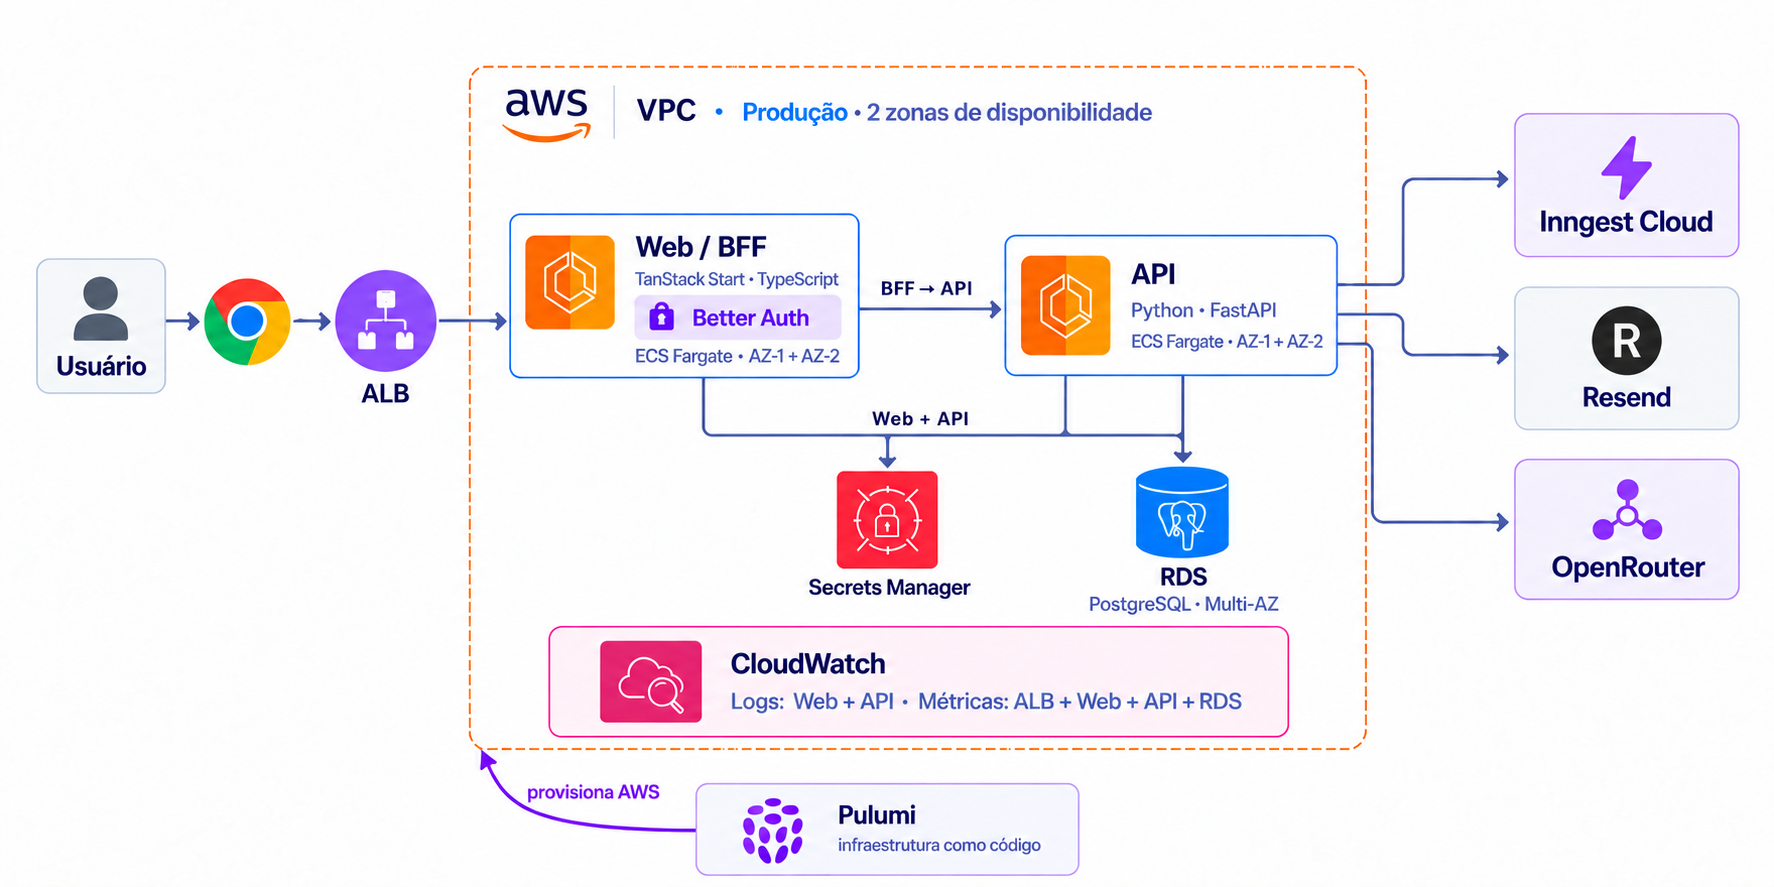
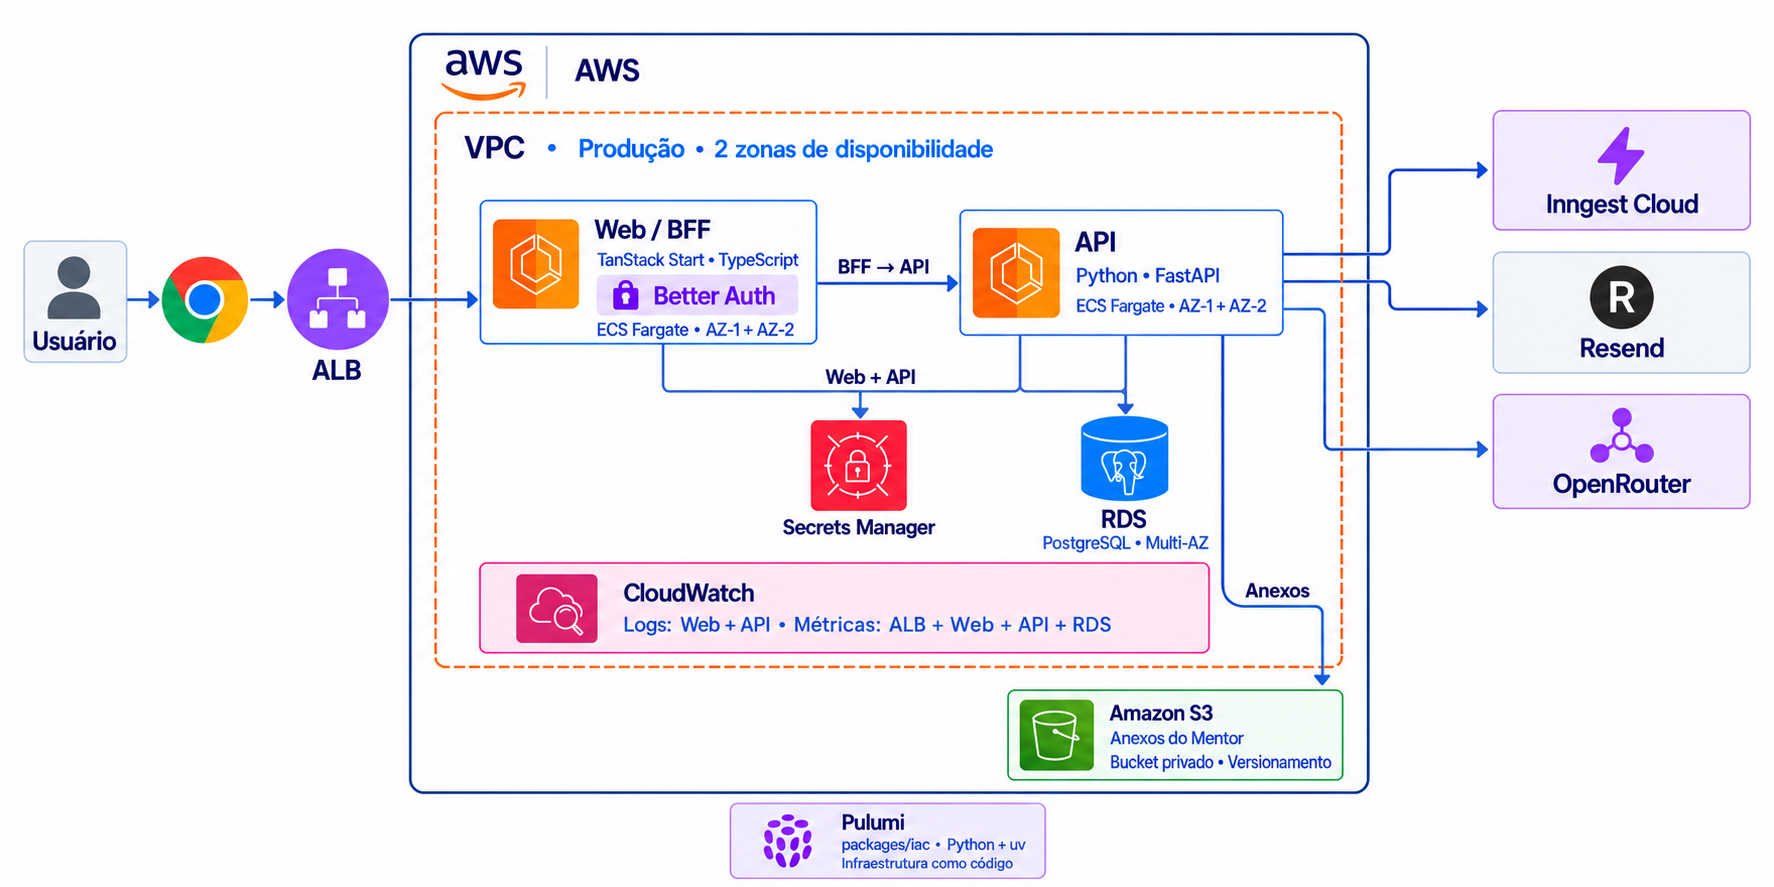
docs: SHIFU-999 update infrastructure documentation

Changed region(s): [[0.0, 0.0304, 0.9921, 1.0]]

diff --git a/documentation/infrastructure.md b/documentation/infrastructure.md
@@ -15,13 +15,14 @@ Para a arquitetura das aplicações e os limites dos módulos de produto, consul
 | Provedor de nuvem | AWS |
 | Execução das aplicações | Dois serviços ECS com Fargate: Web/BFF e API |
 | Banco relacional | Amazon RDS for PostgreSQL |
+| Arquivos de anexos do Mentor | Amazon S3; integração planejada, com objetos privados |
 | Cache e limitação de requisições | Redis gerenciado, em rede privada; produto e capacidade a definir |
 | Processamento assíncrono | Inngest Cloud |
 | E-mail transacional | Resend |
 | Avaliação e recursos de IA | OpenRouter, acessado pela API |
 | Segredos de aplicação | AWS Secrets Manager |
 | Logs, métricas e alarmes AWS | Amazon CloudWatch |
-| Provisionamento | Pulumi, com stacks separados por ambiente |
+| Provisionamento | Pulumi em Python, com uv, no pacote `packages/iac`; stacks separados por ambiente |
 
 Essas escolhas não transferem regras de negócio para a infraestrutura. Identity,
 Communication, Curriculum, Learning, Gamification e Intelligence continuam com
@@ -35,6 +36,7 @@ Navegador → HTTPS/ALB → Web/BFF (TanStack Start, TypeScript)
                             └─ chamadas autenticadas → API (Python, FastAPI)
                                                         ├─ RDS PostgreSQL
                                                         ├─ Redis
+                                                        ├─ S3 (anexos privados do Mentor; planejado)
                                                         ├─ Inngest Cloud
                                                         └─ OpenRouter
 
@@ -98,6 +100,79 @@ abrir a sub-rede de dados.
 
 ## Dados, autenticação e segredos
 
+### S3 — anexos do Mentor
+
+O uso definido de S3 no Shifu é **somente para anexos do Mentor**, como imagens,
+PDFs e outros arquivos enviados nas conversas. Materiais didáticos não fazem
+parte desse uso. A integração com o Mentor é planejada; esta decisão de
+infraestrutura não afirma que upload, leitura de anexos ou processamento pela
+IA já estejam implementados ou aprovados no PRD de Intelligence.
+
+O S3 guarda o conteúdo dos arquivos. O PostgreSQL guarda seus metadados e
+vínculos: identificador do anexo, usuário, conversa, nome original, tipo,
+tamanho e chave do objeto. O caminho segue o domínio proprietário:
+
+```text
+intelligence/mentor/users/{userId}/conversations/{conversationId}/attachments/{attachmentId}/{filename}
+```
+
+Exemplo com identificadores fictícios:
+
+```text
+intelligence/mentor/users/u123/conversations/c456/attachments/a789/exercicio.pdf
+```
+
+A API deve construir a chave, validar o arquivo e verificar a autorização
+para a conversa. O prefixo organiza os objetos, mas não concede acesso. Os
+anexos reais permanecem privados, com bloqueio de acesso público no bucket.
+A identidade IAM da API deve ter somente as permissões necessárias. Não são
+fornecidas credenciais AWS ao navegador.
+
+O fluxo planejado usa URLs pré-assinadas de duração limitada para upload e
+download, emitidas após autorização. Antes de disponibilizar o anexo à
+conversa, a API deve confirmar o upload e seus metadados. A URL temporária não
+é o identificador persistente do arquivo; persiste-se a chave do objeto.
+Tipos aceitos, limites de tamanho, retenção, exclusão e integração com a IA
+precisam de definição no contrato da funcionalidade antes da implementação.
+
+### Laboratório acadêmico de S3 — primeira entrega
+
+A primeira entrega da atividade de armazenamento é um laboratório separado
+da aplicação, operado pela console e/ou CLI, com infraestrutura reproduzível
+em Pulumi. Não exige implementar o upload no site. A stack `lab` terá bucket
+e estado próprios, sem compartilhar anexos reais com staging ou produção.
+
+O laboratório deve demonstrar:
+
+- criação do bucket, nome e região escolhida;
+- pelo menos cinco arquivos de tipos diferentes: imagem, PDF, JSON, CSV e TXT;
+- pelo menos um objeto público e um privado;
+- versionamento habilitado e duas versões de um objeto na mesma chave;
+- link público funcionando no navegador, conforme o template da atividade;
+- relatório técnico e link do repositório, com configuração, prints, comandos
+  utilizados e identificação dos integrantes.
+
+Os arquivos privados usam o prefixo de domínio acima com identificadores e
+conteúdos fictícios. O objeto público existe somente para a demonstração:
+
+```text
+academic/storage-activity/public/exemplo.txt
+```
+
+A política do laboratório deve permitir leitura pública apenas desse objeto,
+sem liberar listagem, escrita ou leitura dos anexos privados. As configurações
+de bloqueio de acesso público da conta e do bucket precisam ser verificadas
+para permitir essa exceção. A configuração pública do laboratório não deve
+ser aplicada aos buckets de anexos reais.
+
+Para demonstrar versionamento, enviar duas versões de um PDF usando a mesma
+chave e registrar os identificadores das versões. Lifecycle e hospedagem de
+site estático são complementos sugeridos, não parte obrigatória desta primeira
+entrega. RDS e DynamoDB pertencem às entregas seguintes do laboratório; isso
+não determina a adoção de DynamoDB no produto.
+
+### PostgreSQL e segredos
+
 O PostgreSQL do RDS é compartilhado pelas aplicações conforme seus esquemas e
 contratos: Better Auth no Web/BFF persiste contas, sessões e chaves; a API
 persiste os dados dos módulos. Migrações de esquema devem ser executadas como
@@ -145,16 +220,79 @@ final do pipeline e a política de rollback ainda precisam ser definidos.
 | Ambiente | Execução e integrações |
 | --- | --- |
 | Local | `docker-compose.yaml` fornece PostgreSQL, Redis, Inngest Dev Server e Mailpit. Web e API rodam pelos comandos dos respectivos manifests. E-mails são capturados pelo Mailpit. |
+| Laboratório | Stack Pulumi `lab`, bucket S3 com dados fictícios, versionamento e um objeto público de demonstração. Independente do runtime do Shifu. |
 | Staging | Stack Pulumi e segredos próprios; ECS Fargate com capacidade reduzida, RDS Single-AZ, Redis privado, um NAT Gateway, Inngest Cloud e Resend. |
 | Produção | Stack Pulumi e segredos próprios; serviços ECS em duas AZs, RDS Multi-AZ, NAT por AZ, Inngest Cloud e Resend. |
 
 Pulumi deve criar e atualizar os recursos AWS de cada ambiente, inclusive
-rede, grupos de segurança, IAM, ECR, ECS, ALB, banco, cache, segredos e
+rede, grupos de segurança, IAM, ECR, ECS, ALB, banco, cache, S3, segredos e
 observabilidade. Os stacks precisam de configuração e estado isolados. A
 revisão de mudanças de infraestrutura deve preceder a aplicação em produção.
 Inngest Cloud, Resend e OpenRouter são serviços externos configurados por
 ambiente; o Pulumi provisiona a infraestrutura AWS, não esses serviços por
 inferência.
+
+### Organização do pacote Pulumi
+
+O pacote será criado em `packages/iac`, seguindo a organização de
+[animus-iac](https://github.com/CtrI-Alt-Del/animus-iac): Pulumi em Python,
+dependências gerenciadas por uv, configuração centralizada e módulos por
+provider. A referência orienta a estrutura; seus recursos GCP, segredos e
+configurações de ambiente não são copiados para o Shifu.
+
+```text
+packages/iac/
+├── Pulumi.yaml
+├── Pulumi.lab.yaml
+├── pyproject.toml
+├── uv.lock
+├── README.md
+└── src/
+    ├── __main__.py
+    └── shifu/
+        ├── __init__.py
+        ├── config/
+        │   ├── __init__.py
+        │   ├── settings.py
+        │   └── naming.py
+        └── aws/
+            ├── __init__.py
+            └── s3.py
+```
+
+- `Pulumi.yaml`: projeto Python, entrypoint `src` e toolchain uv.
+- `Pulumi.lab.yaml`: configurações não sensíveis do laboratório.
+- `config/settings.py`: leitura e validação das configurações da stack.
+- `config/naming.py`: convenções de nomes por projeto e ambiente.
+- `aws/s3.py`: bucket, versionamento, controles de acesso e política da
+  demonstração pública, restrita à stack de laboratório.
+- `aws/__init__.py`: composição dos recursos AWS definidos para a stack.
+- `src/__main__.py`: carrega configurações, compõe recursos e exporta outputs,
+  como nome do bucket e URL do objeto público do laboratório.
+- `pyproject.toml` e `uv.lock`: dependências e instalação reproduzível,
+  independentes de `apps/server`.
+
+Staging e produção terão configurações e stacks próprios quando forem
+implementados. O envio dos arquivos fictícios e das duas versões deve ser
+reproduzível e documentado no README do pacote. O laboratório é o primeiro
+escopo; a estrutura não implica provisionar toda a arquitetura AWS de uma vez.
+
+### Conta Pulumi e execução
+
+O backend de estado definido é o Pulumi Cloud. O login é feito com
+`pulumi login`; `pulumi whoami` confirma a conta ativa antes de selecionar
+ou criar uma stack. A conta Pulumi guarda o estado e não substitui a
+autenticação AWS usada pelo provider. Credenciais e tokens não entram no Git.
+
+O fluxo operacional deve instalar as dependências com uv, selecionar a stack
+e executar `pulumi preview` antes de `pulumi up`. A criação de recursos deve
+ocorrer somente após revisão do preview e autorização para a implantação.
+Os comandos completos serão registrados no README quando o pacote existir.
+Estado local, ambientes virtuais, caches e evidências geradas não devem ser
+versionados; os manifests e lockfiles devem ser.
+
+O pacote e os recursos S3 descritos aqui ainda não foram implementados ou
+provisionados. O documento registra as decisões e o escopo da primeira entrega.
 
 ## Parâmetros de implementação antes do primeiro deploy
 
